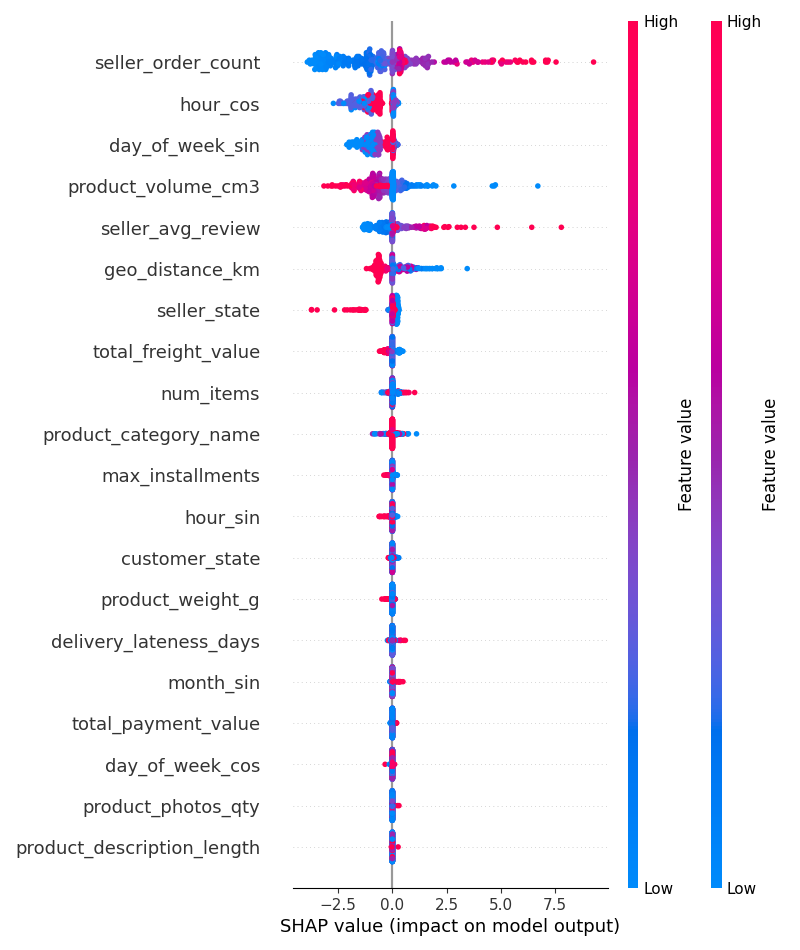
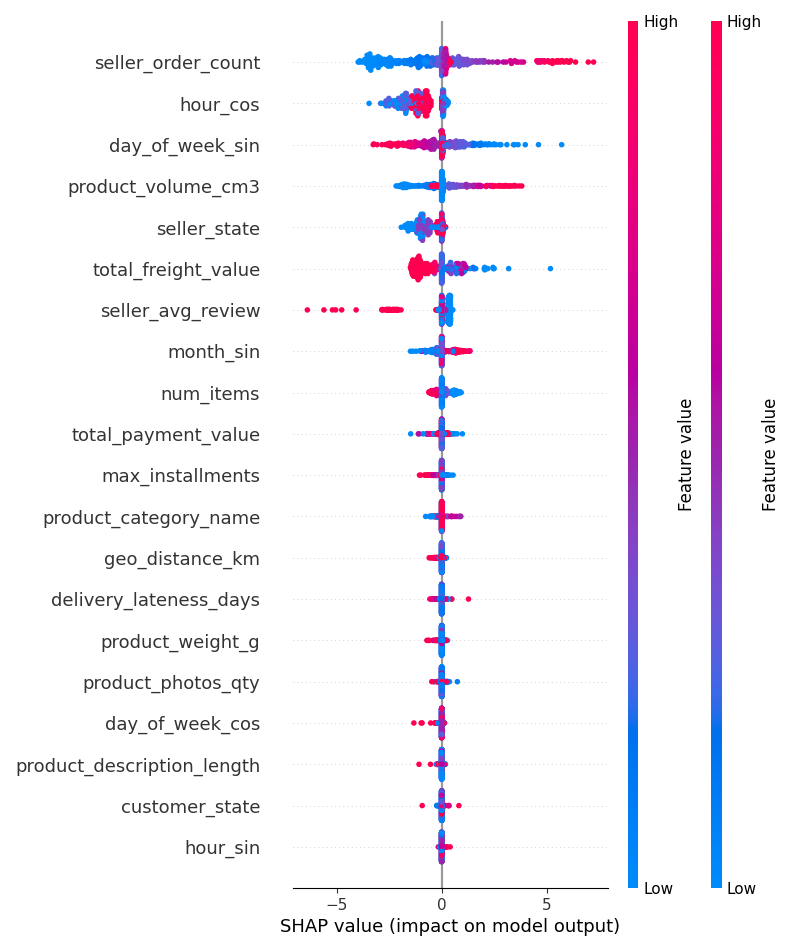
feat: Update SHAP analysis and plots with a new model version and refined inference artifact paths, and reflect serving progress in the README.

diff --git a/src/models/SHAP.py b/src/models/SHAP.py
@@ -64,7 +64,7 @@ def main():
     root_dir = os.getenv('PROJECT_ROOT')
     X_train_path = f"{root_dir}/data/preprocessed/train_features.npy"
     X_test_path = f"{root_dir}/data/preprocessed/test_features.npy"
-    scaler = joblib.load(f"{root_dir}/data/preprocessed/delivery_scaler.pkl")
+    scaler = joblib.load(f"{root_dir}/src/models/inference/delivery_scaler.pkl")
 
     logger.info(f"Loading data")
     X_train = np.load(X_train_path)
@@ -90,7 +90,7 @@ def main():
     
     logger.info("Loading Model")
     model_name = "MMoE Best Bal_Acc"
-    model_version = 2
+    model_version = 4
     model = mlflow.pytorch.load_model(f"models:/{model_name}/{model_version}")
     model.to(device)
     model.eval()

diff --git a/README.md b/README.md
@@ -9,6 +9,7 @@
 [![DuckDB](https://img.shields.io/badge/DuckDB-1.5.0-yellow.svg)](https://duckdb.org/)
 [![PyTorch](https://img.shields.io/badge/PyTorch-Deep%20Learning-ee4c2c.svg)](https://pytorch.org/)
 [![FastAPI](https://img.shields.io/badge/FastAPI-Serving-009688.svg)](https://fastapi.tiangolo.com/)
+[![Live Demo](https://img.shields.io/badge/Live%20Demo-ranvirsv.com-C8A96E.svg)](https://ranvirsv.com/work/olist-mtl-pipeline)
 
 </div>
 
@@ -39,19 +40,18 @@ A Jupyter notebook cannot run in production. This project demonstrates the jump 
 
 ## 🛠 The Tech Stack
 
-| Layer                          | Tool                                                   | Status     |
-| ------------------------------ | ------------------------------------------------------ | ---------- |
-| **Environment & Dependencies** | `uv` _(Rust-based, reproducible virtual environments)_ | ✅ Active  |
-| **Data Engineering (ETL)**     | `DuckDB` _(Serverless analytical SQL)_                 | ✅ Active  |
-| **Data Contracts**             | `Pydantic` _(Strict schema validation)_                | ✅ Active  |
-| **Statistical Research**       | `scipy.stats` _(Hypothesis testing)_                   | ✅ Active  |
-| **Visualization**              | `matplotlib` + `seaborn` _(Custom Plotter library)_    | ✅ Active  |
-| **Data Versioning**            | `DVC` _(Git for massive datasets)_                     | ✅ Active  |
-| **Deep Learning**              | `PyTorch` _(Custom MMoE architecture)_                 | ✅ Active  |
-| **Experiment Tracking**        | `MLflow` _(Hyperparameters & loss curves)_             | ✅ Active  |
-| **Model Export**               | `ONNX Runtime` _(Optimized inference)_                 | 🔲 Planned |
-| **Serving**                    | `FastAPI` _(REST API)_                                 | 🔲 Planned |
-| **CI/CD & UI**                 | `GitHub Actions`, `Docker`, `Streamlit`                | 🔲 Planned |
+| Layer                          | Tool                                                   | Status    |
+| ------------------------------ | ------------------------------------------------------ | --------- |
+| **Environment & Dependencies** | `uv` _(Rust-based, reproducible virtual environments)_ | ✅ Active |
+| **Data Engineering (ETL)**     | `DuckDB` _(Serverless analytical SQL)_                 | ✅ Active |
+| **Data Contracts**             | `Pydantic` _(Strict schema validation)_                | ✅ Active |
+| **Statistical Research**       | `scipy.stats` _(Hypothesis testing)_                   | ✅ Active |
+| **Visualization**              | `matplotlib` + `seaborn` _(Custom Plotter library)_    | ✅ Active |
+| **Data Versioning**            | `DVC` _(Git for massive datasets)_                     | ✅ Active |
+| **Deep Learning**              | `PyTorch` _(Custom MMoE architecture)_                 | ✅ Active |
+| **Experiment Tracking**        | `MLflow` _(Hyperparameters & loss curves)_             | ✅ Active |
+| **Model Export**               | `ONNX Runtime` _(Optimized inference)_                 | ✅ Active |
+| **Serving**                    | `FastAPI` _(REST API)_                                 | ✅ Active |
 
 ---
 
@@ -89,13 +89,20 @@ Olist_MTL_Pipeline/
 ├── src/
 │   ├── etl.py                        # ETL orchestrator + data validation
 │   ├── schemas.py                    # Pydantic data contracts
+│   ├── serve/
+│   │   └── app.py                    # FastAPI serving endpoint (ONNX inference)
 │   ├── models/
 │   │   ├── dataset.py                # Dataset class for PyTorch (with NaN handling)
 │   │   ├── MTLLoss.py                # Learned uncertainty-weighted multi-task loss
 │   │   ├── train.py                  # Training + evaluation + MLflow logging
 │   │   ├── mmoe.py                   # MMoE model class
+│   │   ├── export_onnx.py            # ONNX export from MLflow registry
 │   │   ├── sanity_check.py           # Isolated single-task MLP baseline tests
-│   │   └── SHAP.py                   # SHAP explainability for both task heads
+│   │   ├── SHAP.py                   # SHAP explainability for both task heads
+│   │   └── inference/                # Production inference artifacts
+│   │       ├── mmoe_production.onnx  # Exported ONNX model (20 → 2 outputs)
+│   │       ├── feature_preprocessor.pkl  # Fitted sklearn ColumnTransformer
+│   │       └── delivery_scaler.pkl   # Fitted StandardScaler for target inverse-transform
 │   └── features/
 │       ├── haversine.py              # Haversine distance feature
 │       ├── cyclic.py                 # Cyclic features
@@ -238,18 +245,18 @@ A custom PyTorch `Dataset` that loads the preprocessed `.npy` arrays for feature
 
 ### Training Infrastructure (`src/models/train.py`)
 
-| Hyperparameter       | Value                                       |
-| -------------------- | ------------------------------------------- |
-| `input_dim`          | 20                                          |
-| `num_experts`        | 5                                           |
-| `hidden_dim`         | 64                                          |
-| `num_hidden_layers`  | 1                                           |
-| `num_epochs`         | 10                                          |
-| `batch_size`         | 32                                          |
-| `learning_rate`      | 0.001 (model), 0.01 (loss weights)          |
-| `optimizer`          | Adam (separate param groups)                |
-| `temperature`        | 0.3 (gating softmax)                        |
-| `sampler`            | WeightedRandomSampler                       |
+| Hyperparameter      | Value                              |
+| ------------------- | ---------------------------------- |
+| `input_dim`         | 20                                 |
+| `num_experts`       | 5                                  |
+| `hidden_dim`        | 64                                 |
+| `num_hidden_layers` | 1                                  |
+| `num_epochs`        | 10                                 |
+| `batch_size`        | 32                                 |
+| `learning_rate`     | 0.001 (model), 0.01 (loss weights) |
+| `optimizer`         | Adam (separate param groups)       |
+| `temperature`       | 0.3 (gating softmax)               |
+| `sampler`           | WeightedRandomSampler              |
 
 `WeightedRandomSampler` is used to address the ~5:1 class imbalance in the satisfaction task during training, oversampling the minority (negative review) class without artificially inflating the loss.
 
@@ -327,12 +334,14 @@ A `SHAPExplainer` class wraps the frozen MMoE model and uses **KernelSHAP** to c
 
 **Key findings:**
 
-- **`geo_distance_km`** is the dominant driver — high distance (pink) pushes delivery time predictions strongly positive (up to +10 SHAP units), validating the Haversine engineering step as the most valuable feature.
-- **`day_of_week_sin`** and **`hour_cos`** rank 2nd and 3rd — the day and hour an order is placed meaningfully affects delivery time, likely reflecting warehouse processing schedules, weekend cutoffs, and end-of-day shipping deadlines.
-- **`seller_order_count`** has high-magnitude outliers — very experienced sellers (high order counts) occasionally produce large positive SHAP values, suggesting high-volume sellers may be in remote logistics hubs.
-- **`total_freight_value`** has moderate bidirectional impact — high freight (pink) pushes delivery predictions up, correlating with heavier or more remote shipments.
-- **`seller_state`** and **`product_volume_cm3`** contribute moderately — geographic origin of the seller and package size both influence delivery logistics.
-- Features below the top 7 (`month_sin`, `seller_avg_review`, `product_category_name`, etc.) have minimal individual impact on delivery predictions.
+- **`geo_distance_km`** is the dominant driver — high distance (pink) pushes delivery time predictions strongly positive (up to +8 SHAP units), while short distances (blue) pull strongly negative (down to −6). The Haversine-engineered feature is by far the most valuable predictor.
+- **`day_of_week_sin`** ranks 2nd — the day an order is placed meaningfully shifts delivery predictions, with blue (early-week) values clustering at −2 to −3. This likely reflects warehouse processing schedules and weekend cutoffs.
+- **`seller_order_count`** ranks 3rd with a wide bimodal spread — high-volume sellers (pink) occasionally produce large positive SHAP values (+5 to +7), suggesting experienced sellers may operate from more remote logistics hubs with longer shipping routes.
+- **`total_freight_value`** ranks 4th and shows the widest raw spread — high freight (pink) pushes delivery predictions strongly positive (up to +8), correlating with heavier, bulkier, or more remote shipments. This feature captures shipping complexity directly.
+- **`hour_cos`** ranks 5th — purchase hour has moderate directional impact, likely capturing end-of-day cutoff effects (orders placed after cutoff → next-day processing → +1 day).
+- **`seller_state`** shows a bimodal pattern — certain states (pink) consistently push predictions up by +2 to +5, while others push down. This captures Brazil's uneven logistics infrastructure across regions.
+- **`product_volume_cm3`** shows a counterintuitive pattern — high volume (pink) pushes delivery predictions _negative_ (down to −7). This may reflect that large/heavy items use dedicated freight carriers with faster, more direct logistics than standard mail.
+- Features below rank 7 (`seller_avg_review`, `month_sin`, `product_category_name`, etc.) have minimal individual impact on delivery predictions.
 
 #### Customer Satisfaction — SHAP Summary
 
@@ -340,15 +349,65 @@ A `SHAPExplainer` class wraps the frozen MMoE model and uses **KernelSHAP** to c
 
 **Key findings:**
 
-- **`seller_order_count`** is the single most impactful feature for satisfaction — high-volume sellers (pink) push predictions strongly positive (up to +10 SHAP units), while low-volume sellers (blue) push toward dissatisfied. Seller experience is the strongest proxy for the quality of service a customer will receive.
-- **`hour_cos`** and **`day_of_week_sin`** rank 2nd and 3rd — temporal purchase patterns have significant predictive power, possibly capturing operational efficiency differences (orders placed during business hours vs. off-hours/weekends).
-- **`product_volume_cm3`** ranks 4th — larger products push predictions in both directions with high variance, likely reflecting category-dependent satisfaction patterns (large items may have higher damage/return rates, but also higher engagement when they arrive well).
-- **`seller_avg_review`** ranks 5th — high seller reputation (pink) pushes toward satisfied, confirming that historical seller quality predicts future customer sentiment.
-- **`geo_distance_km`** has moderate impact (6th) — long-distance orders slightly push toward dissatisfied, though less impactful than for delivery predictions.
-- **`total_freight_value`**, **`num_items`**, **`product_category_name`**, and **`max_installments`** have minor contributions — most of the satisfaction signal is captured by seller characteristics and temporal features.
-- **`total_payment_value`**, **`product_photos_qty`**, and **`product_description_length`** rank at the bottom with near-zero SHAP impact.
+- **`seller_order_count`** is the single most impactful feature — high-volume sellers (pink) push predictions strongly toward satisfied (up to +8 SHAP units), while low-volume sellers (blue) push toward dissatisfied (down to −5). Seller experience is the strongest proxy for service quality.
+- **`hour_cos`** and **`day_of_week_sin`** rank 2nd and 3rd — temporal purchase patterns have surprisingly high predictive power. This likely captures operational efficiency differences: orders placed during business hours may be processed faster and more carefully than off-hours/weekend orders.
+- **`product_volume_cm3`** ranks 4th with bidirectional spread — larger products push predictions in both directions with high variance, reflecting category-dependent satisfaction patterns.
+- **`seller_state`** ranks 5th with a bimodal pattern — some seller regions consistently produce higher satisfaction, possibly reflecting regional logistics infrastructure quality.
+- **`total_freight_value`** ranks 6th — high freight (pink) pushes slightly toward satisfied, counterintuitively. This may reflect that customers paying premium shipping get faster, more reliable delivery.
+- **`seller_avg_review`** ranks 7th and shows a counterintuitive pattern — high seller reputation (pink) pushes predictions _negative_ (down to −5). This is likely a suppression effect: after `seller_order_count` captures the primary seller signal, residual variation in avg_review may flag cases where even "good" sellers occasionally disappoint, and those complaints carry more predictive weight.
+- **`month_sin`** and **`num_items`** have moderate but narrow impact — seasonal patterns and multi-item order complexity contribute marginally.
+- **`geo_distance_km`** ranks surprisingly low (13th) for satisfaction despite being the #1 delivery driver — suggesting customers care about the _experience_ of delivery (seller responsiveness, packaging quality) more than absolute geographic distance.
+- **`total_payment_value`**, **`product_photos_qty`**, **`product_description_length`**, **`customer_state`**, and **`hour_sin`** rank at the bottom with near-zero SHAP impact.
 
-> The SHAP analysis reveals an important architectural insight: the two tasks share features (`geo_distance_km`, `seller_order_count`, temporal features) but prioritize them very differently. Delivery is dominated by geography and logistics features, while satisfaction is dominated by seller reputation and experience. This divergence is precisely what MMoE's task-specific gating is designed to handle, allowing shared experts to learn common representations while the gates route relevant signals to each task head.
+> **Note:** These SHAP plots were generated from a model that still included `delivery_lateness_days` as a feature. It ranked #11 for delivery and #14 for satisfaction with negligible impact in both — reinforcing the decision to remove it from the feature set due to target leakage concerns.
+
+> **Architectural insight:** The two tasks share features (`geo_distance_km`, `seller_order_count`, temporal features) but prioritize them very differently. Delivery is dominated by geography and logistics features, while satisfaction is dominated by seller experience and temporal patterns. This divergence is precisely what MMoE's task-specific gating is designed to handle, allowing shared experts to learn common representations while the gates route relevant signals to each task head.
+
+---
+
+## Phase 4 — ONNX Export ✅
+
+### Model Export (`src/models/export_onnx.py`)
+
+The best model (Run 12) is loaded from the **MLflow Model Registry** and exported to ONNX format for production inference:
+
+- **Input**: `[batch_size, 20]` float32 tensor
+- **Outputs**: `delivery_days` (regression logit) and `satisfaction_logits` (classification logit)
+- **Dynamic batch axis** allows single-request and batched inference
+- Model size: ~320KB total (ONNX graph + external data)
+
+The fitted `StandardScaler` (delivery target inverse-transform) and `ColumnTransformer` (feature preprocessing) are persisted as pickle files alongside the ONNX model in `src/models/inference/`.
+
+---
+
+## Phase 5 — FastAPI Serving ✅
+
+### REST API (`src/serve/app.py`)
+
+A production FastAPI endpoint that serves real-time predictions:
+
+- **`POST /predict`** — Accepts order features as JSON, returns predicted delivery days and satisfaction score
+- **Lifespan management** — ONNX session, feature scaler, and target scaler are loaded once at startup and cleared on shutdown
+- **Haversine distance** computed server-side from customer/seller lat/lng coordinates
+- **Pydantic validation** on all input fields with NaN-to-None sanitization
+- **CORS middleware** enabled for cross-origin frontend requests
+
+```
+POST /predict → { "delivery_days": 12.3, "review_score": 1 }
+```
+
+Where `review_score = 1` means satisfied (predicted review >= 4 stars).
+
+---
+
+## Phase 6 — Deployment ✅
+
+### Live Deployment
+
+| Platform           | URL                                                                                  | Purpose                                    |
+| ------------------ | ------------------------------------------------------------------------------------ | ------------------------------------------ |
+| **Render**         | [olist-ai-api.onrender.com](https://olist-ai-api.onrender.com)                       | FastAPI + ONNX Runtime serving             |
+| **Portfolio Demo** | [ranvirsv.com/work/olist-mtl-pipeline](https://ranvirsv.com/work/olist-mtl-pipeline) | Interactive map-based demo calling the API |
 
 ---
 
@@ -358,6 +417,6 @@ A `SHAPExplainer` class wraps the frozen MMoE model and uses **KernelSHAP** to c
 - [x] **Phase 1 — EDA & Hypothesis Testing** — Statistical validation of architecture assumptions
 - [x] **Phase 2 — Feature Engineering** — Haversine distance, temporal features, encoding pipelines
 - [x] **Phase 3 — MMoE Model + MLflow** — Multi-gate Mixture-of-Experts in PyTorch, 37-run experiment tracking, SHAP explainability
-- [ ] **Phase 4 — Model Export** — ONNX Runtime optimized inference
-- [ ] **Phase 5 — Serving** — FastAPI REST endpoint
-- [ ] **Phase 6 — CI/CD & UI** — GitHub Actions, Docker, Streamlit dashboard
+- [x] **Phase 4 — Model Export** — ONNX Runtime optimized inference
+- [x] **Phase 5 — Serving** — FastAPI REST endpoint with Pydantic validation
+- [x] **Phase 6 — Deployment** — Render cloud hosting, portfolio demo at [ranvirsv.com](https://ranvirsv.com/work/olist-mtl-pipeline)
